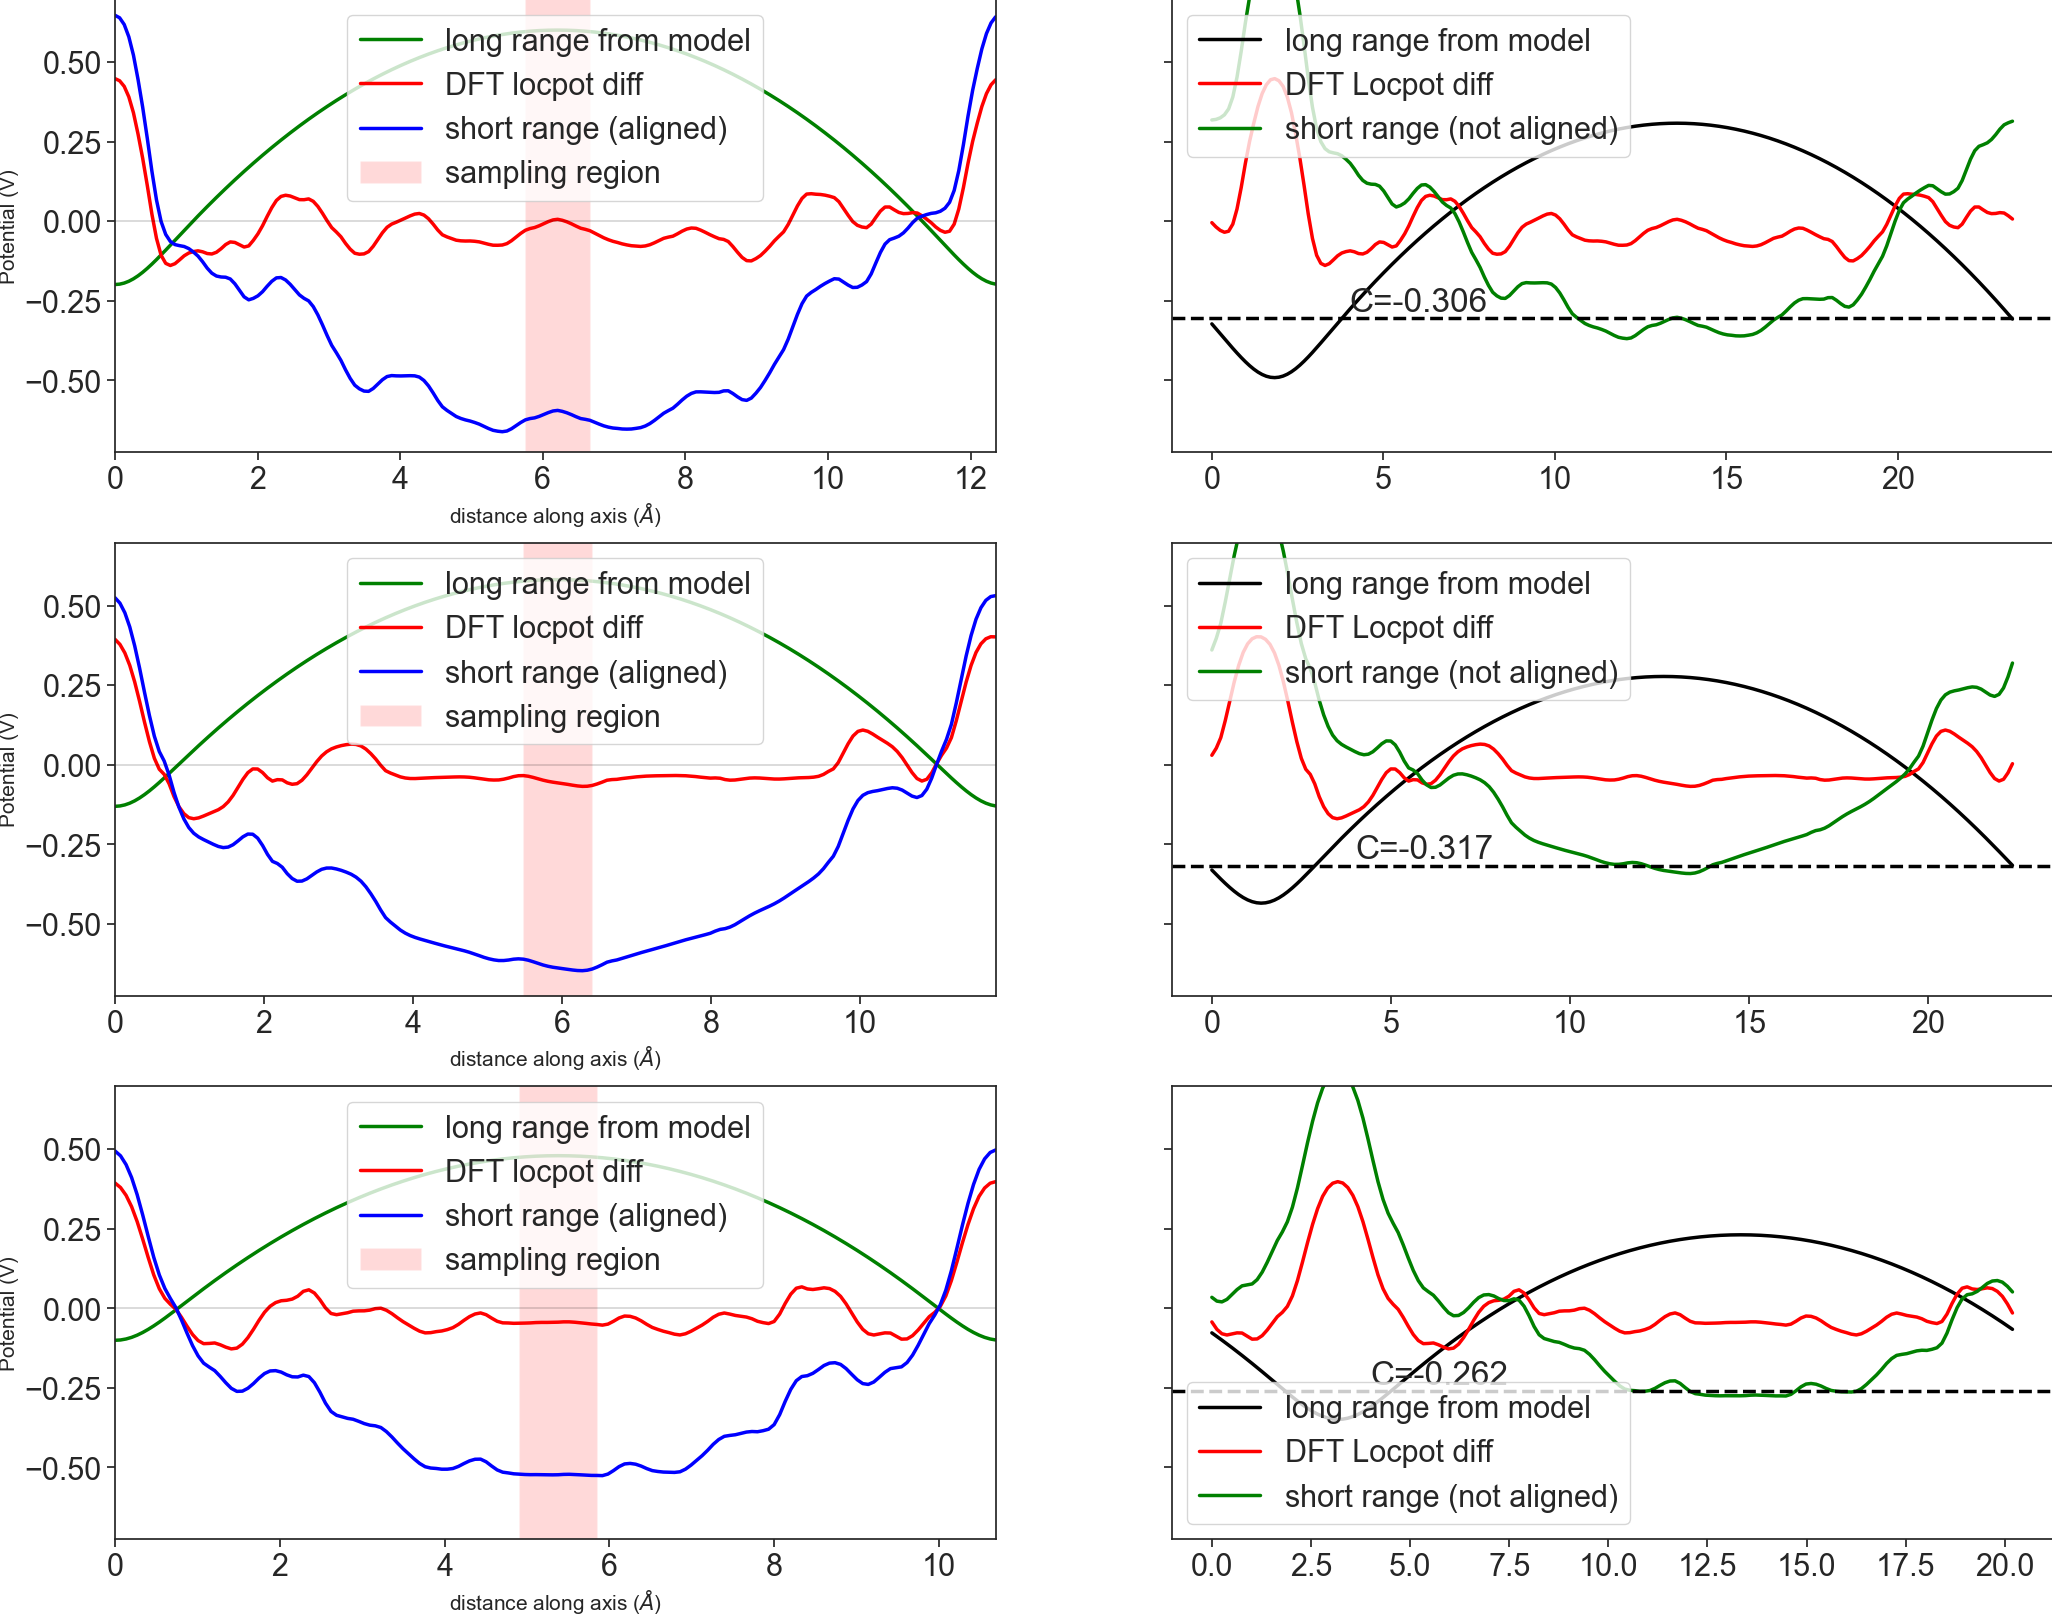
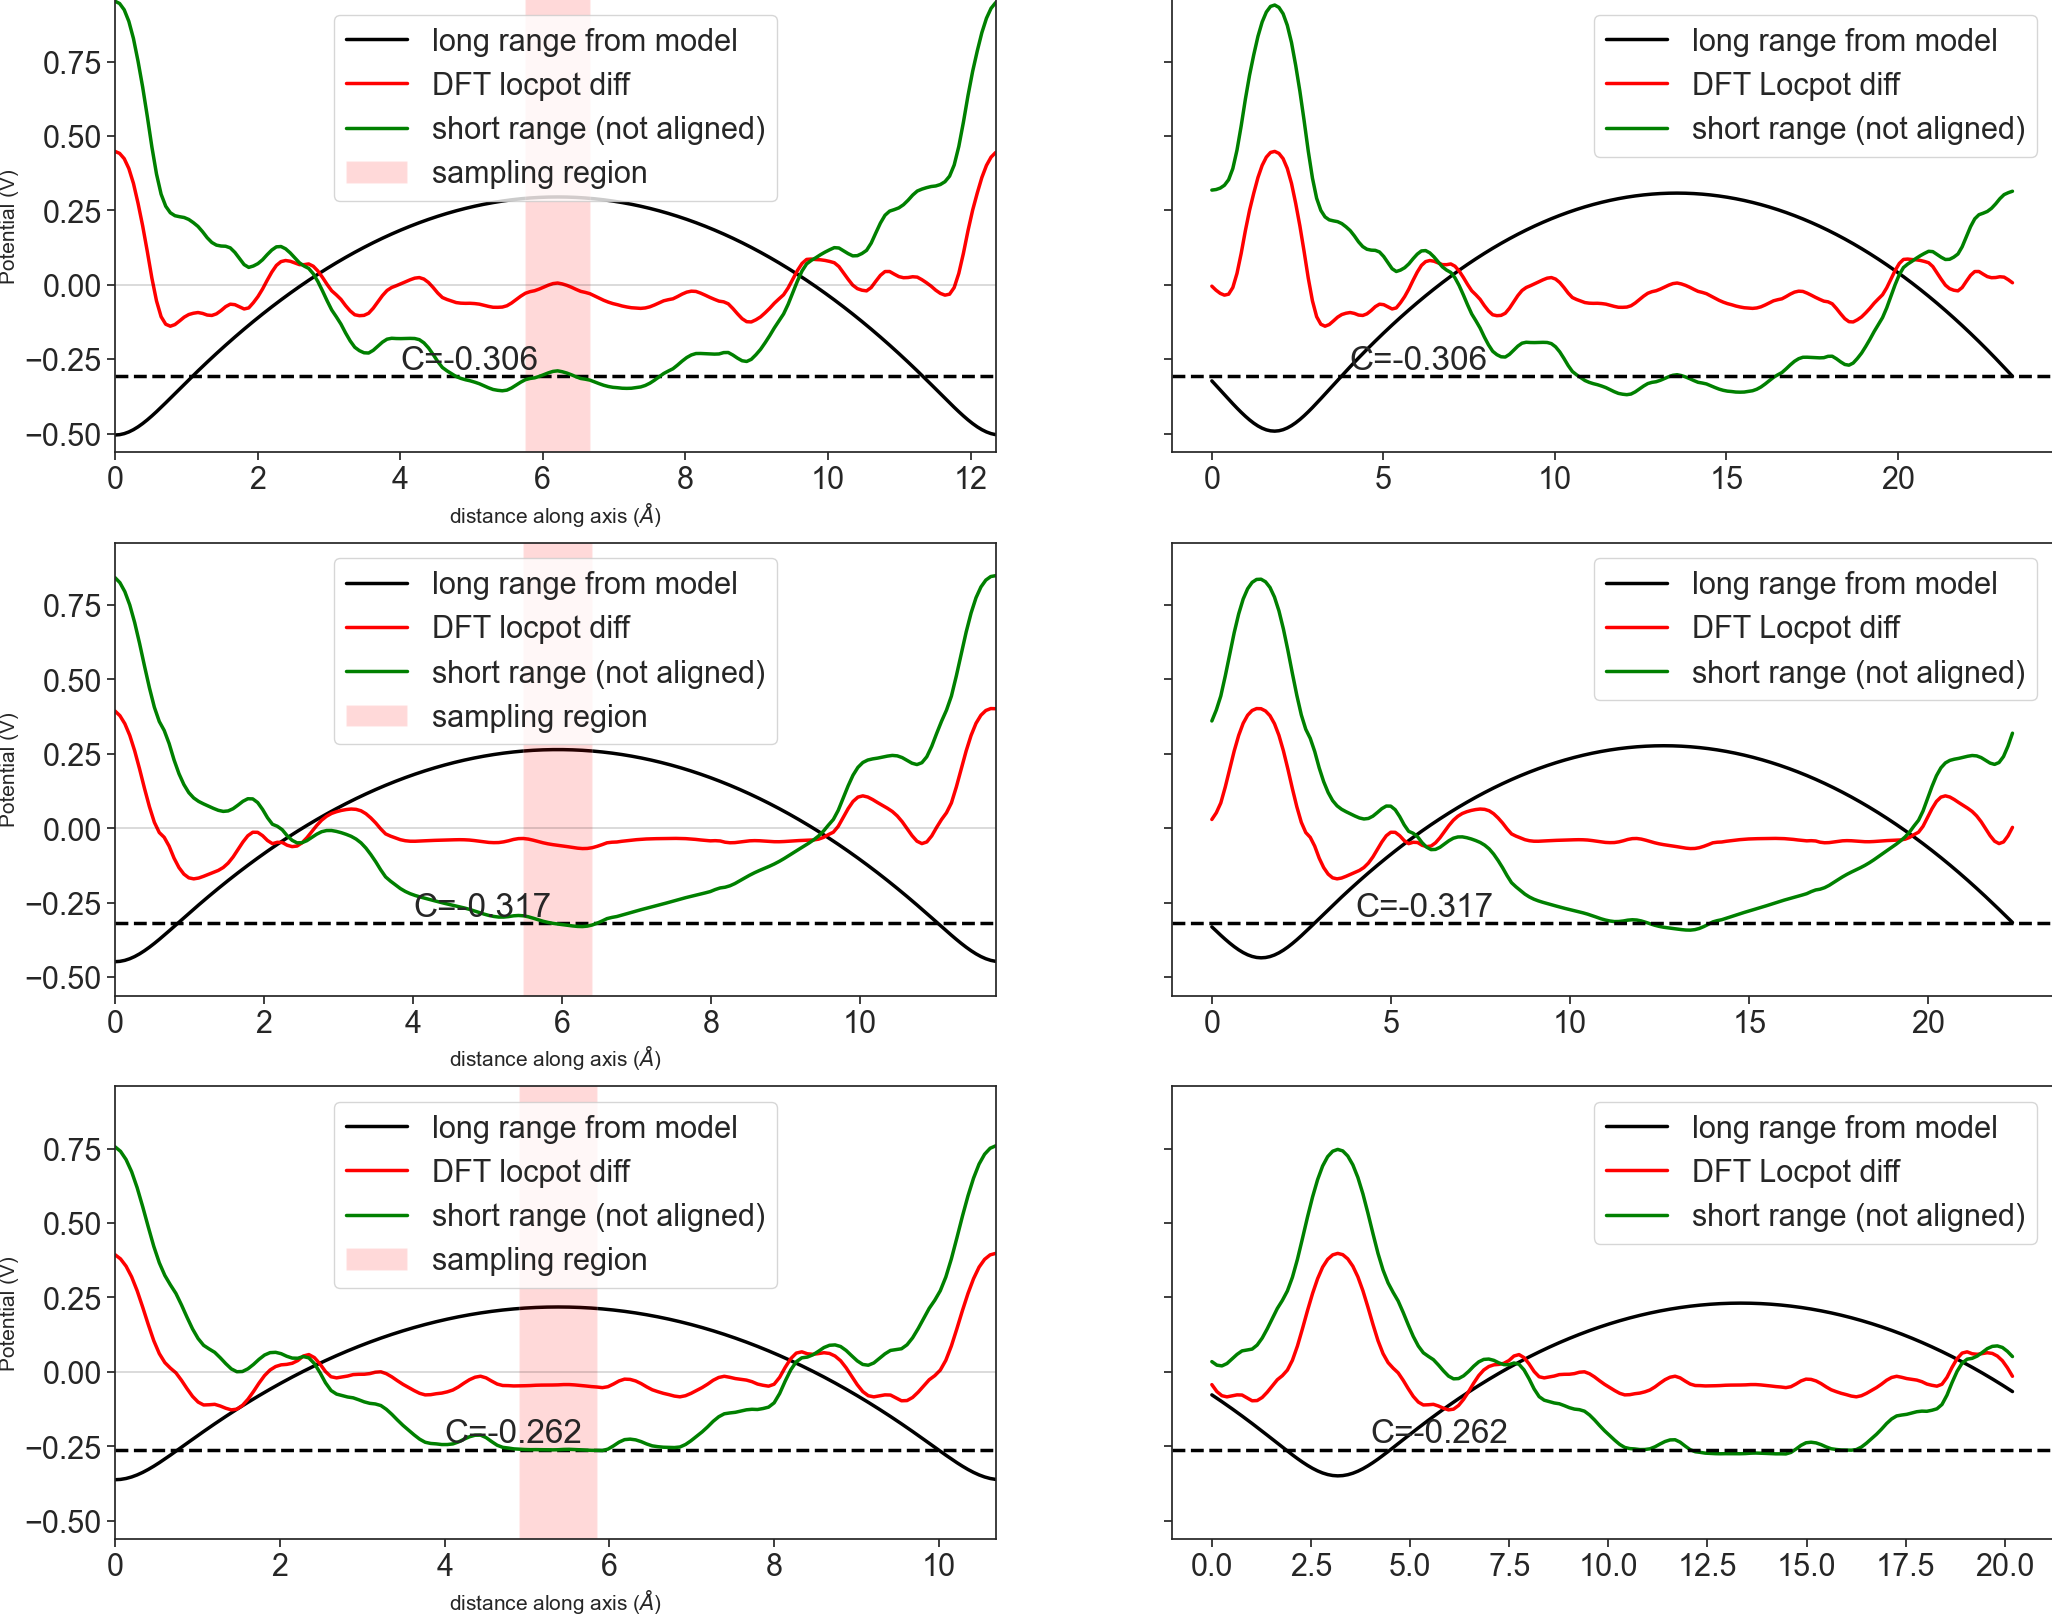
fixed freysoldt plotting

diff --git a/pymatgen/analysis/defects/corrections/freysoldt.py b/pymatgen/analysis/defects/corrections/freysoldt.py
@@ -340,8 +340,8 @@ def perform_pot_corr(
 
     C = np.mean(tmppot)
     _logger.debug("C = %f", C)
-    final_shift = [short[j] + C for j in range(len(v_R))]
-    v_R = [elmnt - C for elmnt in v_R]
+    short_range = short
+    v_R = [elmnt for elmnt in v_R]
 
     _logger.info("C value is averaged to be %f eV ", C)
     _logger.info("Potentital alignment energy correction (q * Delta):  %f (eV)", q * C)
@@ -352,7 +352,8 @@ def perform_pot_corr(
         "Vr": v_R,
         "x": axis_grid,
         "dft_diff": np.array(defavg) - np.array(pureavg),
-        "final_shift": final_shift,
+        "short_range": short_range,
+        "shift": C,
         "check": [mid - checkdis, mid + checkdis + 1],
     }
     # log uncertainty:
@@ -383,14 +384,17 @@ def plot_plnr_avg(plot_data, title=None, saved=False, ax=None):
     x = plot_data["pot_plot_data"]["x"]
     v_R = plot_data["pot_plot_data"]["Vr"]
     dft_diff = plot_data["pot_plot_data"]["dft_diff"]
-    final_shift = plot_data["pot_plot_data"]["final_shift"]
+    short_range = plot_data["pot_plot_data"]["short_range"]
     check = plot_data["pot_plot_data"]["check"]
+    C = plot_data["pot_plot_data"]["shift"]
+    ax.axhline(C, color="k", linestyle="--")
+    ax.text(4, C, f"C={C:0.3f}", va="bottom")
 
     if ax is None:
         fig, ax = plt.subplots()
-    ax.plot(x, v_R, c="green", zorder=1, label="long range from model")
+    ax.plot(x, v_R, c="black", zorder=1, label="long range from model")
     ax.plot(x, dft_diff, c="red", label="DFT locpot diff")
-    ax.plot(x, final_shift, c="blue", label="short range (aligned)")
+    ax.plot(x, short_range, c="green", label="short range (not aligned)")
 
     tmpx = [x[i] for i in range(check[0], check[1])]
     ax.fill_between(
@@ -398,8 +402,8 @@ def plot_plnr_avg(plot_data, title=None, saved=False, ax=None):
     )
 
     ax.set_xlim(round(x[0]), round(x[-1]))
-    ymin = min(min(v_R), min(dft_diff), min(final_shift))
-    ymax = max(max(v_R), max(dft_diff), max(final_shift))
+    ymin = min(min(v_R), min(dft_diff), min(short_range))
+    ymax = max(max(v_R), max(dft_diff), max(short_range))
     ax.set_ylim(-0.2 + ymin, 0.2 + ymax)
     ax.set_xlabel(r"distance along axis ($\AA$)", fontsize=15)
     ax.set_ylabel("Potential (V)", fontsize=15)

diff --git a/pymatgen/analysis/defects/generators.py b/pymatgen/analysis/defects/generators.py
@@ -42,7 +42,9 @@ class DefectGenerator(MSONable, metaclass=ABCMeta):
                 angle_tolerance=self.angle_tolerance,
             )
         else:  # pragma: no cover
-            raise ValueError("This generator does not have symprec and angle_tolerance")
+            raise ValueError(
+                "This generator is using the `SpaceGroupAnalyzer` and requires `symprec` and `angle_tolerance` to be set."
+            )
 
     def get_defects(self, *args, **kwargs) -> list[Defect]:
         """Call the generator and convert the results into a list."""
@@ -291,7 +293,7 @@ class VoronoiInterstitialGenerator(InterstitialGenerator):
             insert_species: The species to be inserted.
             **kwargs: Additional keyword arguments for the ``Interstitial`` constructor.
         """
-        if len(set(insert_species)) != len(insert_species):
+        if len(set(insert_species)) != len(insert_species):  # pragma: no cover
             raise ValueError("Insert species must be unique.")
         cand_sites_and_mul = [*self._get_candidate_sites(structure)]
         for species in insert_species:
@@ -368,7 +370,7 @@ class ChargeInterstitialGenerator(InterstitialGenerator):
             insert_species: The species to be inserted.
             **kwargs: Additional keyword arguments for the ``Interstitial`` constructor.
         """
-        if len(set(insert_species)) != len(insert_species):
+        if len(set(insert_species)) != len(insert_species):  # pragma: no cover
             raise ValueError("Insert species must be unique.")
         cand_sites_and_mul = [*self._get_candidate_sites(chgcar)]
         for species in insert_species:
